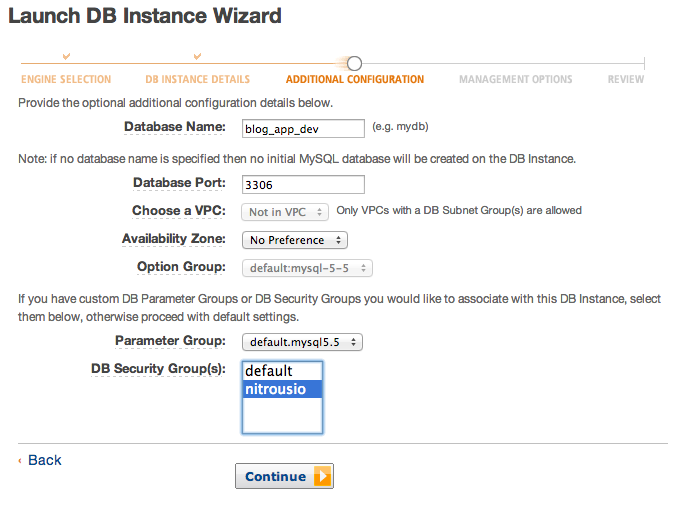
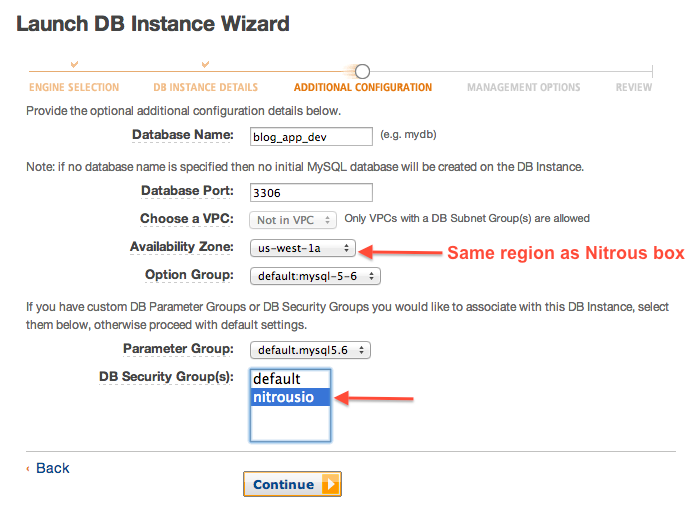
Site updated at 2013-08-04 01:59:07 UTC

Changed region(s): [[0.0311, 0.0886, 0.9956, 0.9744], [0.0, 0.0, 0.4356, 0.0591]]

diff --git a/index.html b/index.html
@@ -110,6 +110,24 @@
   <a class="view-all btn" href="/categories/getting-started">View all »</a>
 	</div>
 	
+	<div id="category_privacy and terms" class="span">
+		<h3>Privacy & terms</h3>
+	<ul>
+		
+		<li><i class="icon-file"></i><a href="/admin-security-response">Security Response</a></li>
+		
+		<li><i class="icon-file"></i><a href="/contact-us">Contact us</a></li>
+		
+		<li><i class="icon-file"></i><a href="/admin-terms">Terms of use</a></li>
+		
+		<li><i class="icon-file"></i><a href="/admin-security">Security on Nitrous.IO</a></li>
+		
+		<li><i class="icon-file"></i><a href="/admin-privacy">Privacy policy</a></li>
+		
+  </ul>
+  <a class="view-all btn" href="/categories/privacy-and-terms">View all »</a>
+	</div>
+	
 	<div id="category_boxes" class="span">
 		<h3>Boxes</h3>
 	<ul>
@@ -126,20 +144,14 @@
   <a class="view-all btn" href="/categories/boxes">View all »</a>
 	</div>
 	
-	<div id="category_databases" class="span">
-		<h3>Databases</h3>
+	<div id="category_collaboration" class="span">
+		<h3>Collaboration</h3>
 	<ul>
 		
-		<li><i class="icon-file"></i><a href="/redis-cloud">Redis Cloud</a></li>
-		
-		<li><i class="icon-file"></i><a href="/amazon-rds">Amazon RDS</a></li>
-		
-		<li><i class="icon-file"></i><a href="/postgres">Postgres</a></li>
-		
-		<li><i class="icon-file"></i><a href="/mongodb">MongoDB</a></li>
+		<li><i class="icon-file"></i><a href="/collab">Collaborative Coding Overview</a></li>
 		
   </ul>
-  <a class="view-all btn" href="/categories/databases">View all »</a>
+  <a class="view-all btn" href="/categories/collaboration">View all »</a>
 	</div>
 	
 	<div id="category_faq" class="span">
@@ -160,36 +172,6 @@
   <a class="view-all btn" href="/categories/faq">View all »</a>
 	</div>
 	
-	<div id="category_previewing" class="span">
-		<h3>Previewing</h3>
-	<ul>
-		
-		<li><i class="icon-file"></i><a href="/preview">Previewing Your Application</a></li>
-		
-		<li><i class="icon-file"></i><a href="/faq-localhost">Problems previewing my application</a></li>
-		
-  </ul>
-  <a class="view-all btn" href="/categories/previewing">View all »</a>
-	</div>
-	
-	<div id="category_privacy and terms" class="span">
-		<h3>Privacy & terms</h3>
-	<ul>
-		
-		<li><i class="icon-file"></i><a href="/admin-security-response">Security Response</a></li>
-		
-		<li><i class="icon-file"></i><a href="/contact-us">Contact us</a></li>
-		
-		<li><i class="icon-file"></i><a href="/admin-terms">Terms of use</a></li>
-		
-		<li><i class="icon-file"></i><a href="/admin-security">Security on Nitrous.IO</a></li>
-		
-		<li><i class="icon-file"></i><a href="/admin-privacy">Privacy policy</a></li>
-		
-  </ul>
-  <a class="view-all btn" href="/categories/privacy-and-terms">View all »</a>
-	</div>
-	
 	<div id="category_web ide" class="span">
 		<h3>Web ide</h3>
 	<ul>
@@ -206,6 +188,78 @@
 		
   </ul>
   <a class="view-all btn" href="/categories/web-ide">View all »</a>
+	</div>
+	
+	<div id="category_previewing" class="span">
+		<h3>Previewing</h3>
+	<ul>
+		
+		<li><i class="icon-file"></i><a href="/preview">Previewing Your Application</a></li>
+		
+		<li><i class="icon-file"></i><a href="/faq-localhost">Problems previewing my application</a></li>
+		
+  </ul>
+  <a class="view-all btn" href="/categories/previewing">View all »</a>
+	</div>
+	
+	<div id="category_deployment" class="span">
+		<h3>Deployment</h3>
+	<ul>
+		
+		<li><i class="icon-file"></i><a href="/heroku-rails">Deploying to Heroku</a></li>
+		
+		<li><i class="icon-file"></i><a href="/heroku">Heroku integration</a></li>
+		
+  </ul>
+  <a class="view-all btn" href="/categories/deployment">View all »</a>
+	</div>
+	
+	<div id="category_file uploads" class="span">
+		<h3>File uploads</h3>
+	<ul>
+		
+		<li><i class="icon-file"></i><a href="/ide-file-uploads">Uploading files via the Web IDE</a></li>
+		
+  </ul>
+  <a class="view-all btn" href="/categories/file-uploads">View all »</a>
+	</div>
+	
+	<div id="category_mac" class="span">
+		<h3>Mac</h3>
+	<ul>
+		
+		<li><i class="icon-file"></i><a href="/ssh-add">Adding SSH Keys (mac)</a></li>
+		
+		<li><i class="icon-file"></i><a href="/mac-preferences">Mac App Preferences</a></li>
+		
+  </ul>
+  <a class="view-all btn" href="/categories/mac">View all »</a>
+	</div>
+	
+	<div id="category_databases" class="span">
+		<h3>Databases</h3>
+	<ul>
+		
+		<li><i class="icon-file"></i><a href="/amazon-rds">Amazon RDS</a></li>
+		
+		<li><i class="icon-file"></i><a href="/redis-cloud">Redis Cloud</a></li>
+		
+		<li><i class="icon-file"></i><a href="/postgres">Postgres</a></li>
+		
+		<li><i class="icon-file"></i><a href="/mongodb">MongoDB</a></li>
+		
+  </ul>
+  <a class="view-all btn" href="/categories/databases">View all »</a>
+	</div>
+	
+	<div id="category_node" class="span">
+		<h3>Node</h3>
+	<ul>
+		
+		<li><i class="icon-file"></i><a href="/node-connect-server">Run a static site with NodeJS</a></li>
+		
+  </ul>
+  <a class="view-all btn" href="/categories/node">View all »</a>
 	</div>
 	
 	<div id="category_ssh" class="span">
@@ -234,60 +288,6 @@
 		
   </ul>
   <a class="view-all btn" href="/categories/public-keys">View all »</a>
-	</div>
-	
-	<div id="category_file uploads" class="span">
-		<h3>File uploads</h3>
-	<ul>
-		
-		<li><i class="icon-file"></i><a href="/ide-file-uploads">Uploading files via the Web IDE</a></li>
-		
-  </ul>
-  <a class="view-all btn" href="/categories/file-uploads">View all »</a>
-	</div>
-	
-	<div id="category_collaboration" class="span">
-		<h3>Collaboration</h3>
-	<ul>
-		
-		<li><i class="icon-file"></i><a href="/collab">Collaborative Coding Overview</a></li>
-		
-  </ul>
-  <a class="view-all btn" href="/categories/collaboration">View all »</a>
-	</div>
-	
-	<div id="category_deployment" class="span">
-		<h3>Deployment</h3>
-	<ul>
-		
-		<li><i class="icon-file"></i><a href="/heroku-rails">Deploying to Heroku</a></li>
-		
-		<li><i class="icon-file"></i><a href="/heroku">Heroku integration</a></li>
-		
-  </ul>
-  <a class="view-all btn" href="/categories/deployment">View all »</a>
-	</div>
-	
-	<div id="category_mac" class="span">
-		<h3>Mac</h3>
-	<ul>
-		
-		<li><i class="icon-file"></i><a href="/ssh-add">Adding SSH Keys (mac)</a></li>
-		
-		<li><i class="icon-file"></i><a href="/mac-preferences">Mac App Preferences</a></li>
-		
-  </ul>
-  <a class="view-all btn" href="/categories/mac">View all »</a>
-	</div>
-	
-	<div id="category_node" class="span">
-		<h3>Node</h3>
-	<ul>
-		
-		<li><i class="icon-file"></i><a href="/node-connect-server">Run a static site with NodeJS</a></li>
-		
-  </ul>
-  <a class="view-all btn" href="/categories/node">View all »</a>
 	</div>
 	
 	<div id="category_windows" class="span">

diff --git a/amazon-rds/index.html b/amazon-rds/index.html
@@ -64,13 +64,13 @@
     <div class='articles'>
       <div class="page-title">  
         <h1> Amazon RDS </h1>
-        <h5 class="note">Last Updated on: 2013-07-19 </h5>
+        <h5 class="note">Last Updated on: 2013-08-02 </h5>
       </div>
       <p>With <a href='http://aws.amazon.com/rds/'>Amazon RDS</a> you can quickly and easily provision and maintain a MySQL, Oracle, or Microsoft SQL Server instance in the cloud.</p>
 
 <h3 id='prerequisites'>Prerequisites</h3>
 
-<p>You will need to first sign up with <a href='http://aws.amazon.com/'>Amazon Web Services</a>.</p>
+<p><em>A Nitrous Box within the same region as the database you will create. This is chosen when you first provision a Nitrous box.</em>You will need to first sign up with <a href='http://aws.amazon.com/'>Amazon Web Services</a>.</p>
 
 <h3 id='adding_a_security_group_with_amazon_rds'>Adding a Security Group with Amazon RDS</h3>
 
@@ -85,11 +85,9 @@ EC2 Security Group (name): box_host</code></pre>
 
 <p>Within your <a href='https://console.aws.amazon.com/rds/home'>Amazon RDS Console</a> you will want to navigate to Instances and Launch a new DB Instance. When prompted, select the MySQL Database Engine.</p>
 
-<blockquote>
-<p>Note: Ensure that the database is setup in the same region as your Nitrous box, as this is required in order for a connection to be made (US East with US East, etc.).</p>
-</blockquote>
+<p>On the Additinal Configuration page, ensure the <strong>Availability Zone</strong> matches the region your Nitrous box. In this example, the Nitrous box is in the US West region so we will select <strong>us-west-1a</strong> for the Availability Zone.</p>
 
-<p>When setting up the database remember to select the Security Group you have just created, and also remember your password for connecting later.</p>
+<p>Select the DB Security Group you have just created, and also remember your password for connecting later.</p>
 
 <p><img alt='Amazon RDS Settings' src='/images/articles/amazon_instance_setting.png' /></p>
 

diff --git a/categories/databases/index.html b/categories/databases/index.html
@@ -67,9 +67,9 @@
       </div>
       <ul class="posts">
 
-    <li><h2><i class="icon-file"></i><a href="/redis-cloud">Redis Cloud</a></h2></li>
-
     <li><h2><i class="icon-file"></i><a href="/amazon-rds">Amazon RDS</a></h2></li>
+
+    <li><h2><i class="icon-file"></i><a href="/redis-cloud">Redis Cloud</a></h2></li>
 
     <li><h2><i class="icon-file"></i><a href="/postgres">Postgres</a></h2></li>
 
